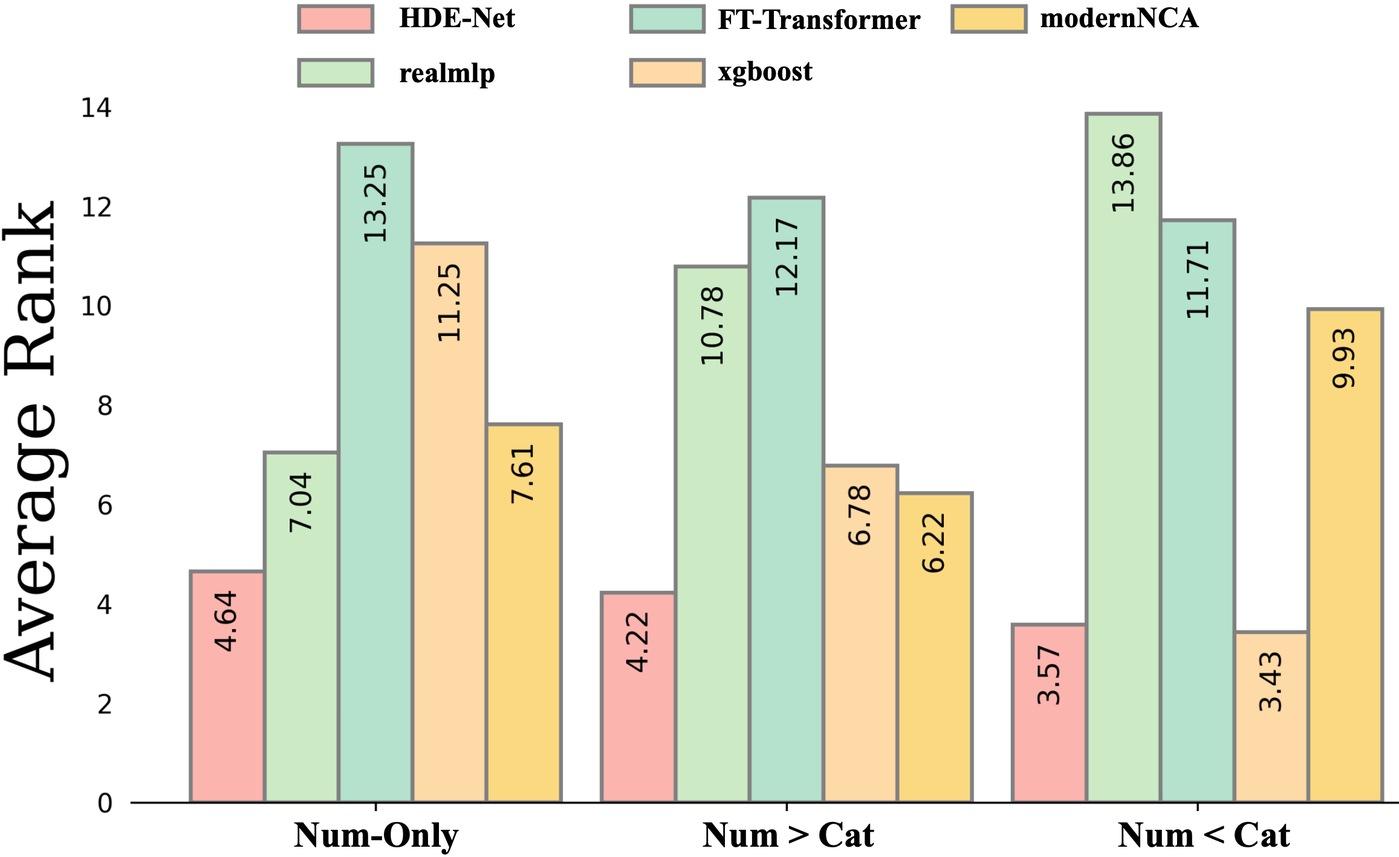
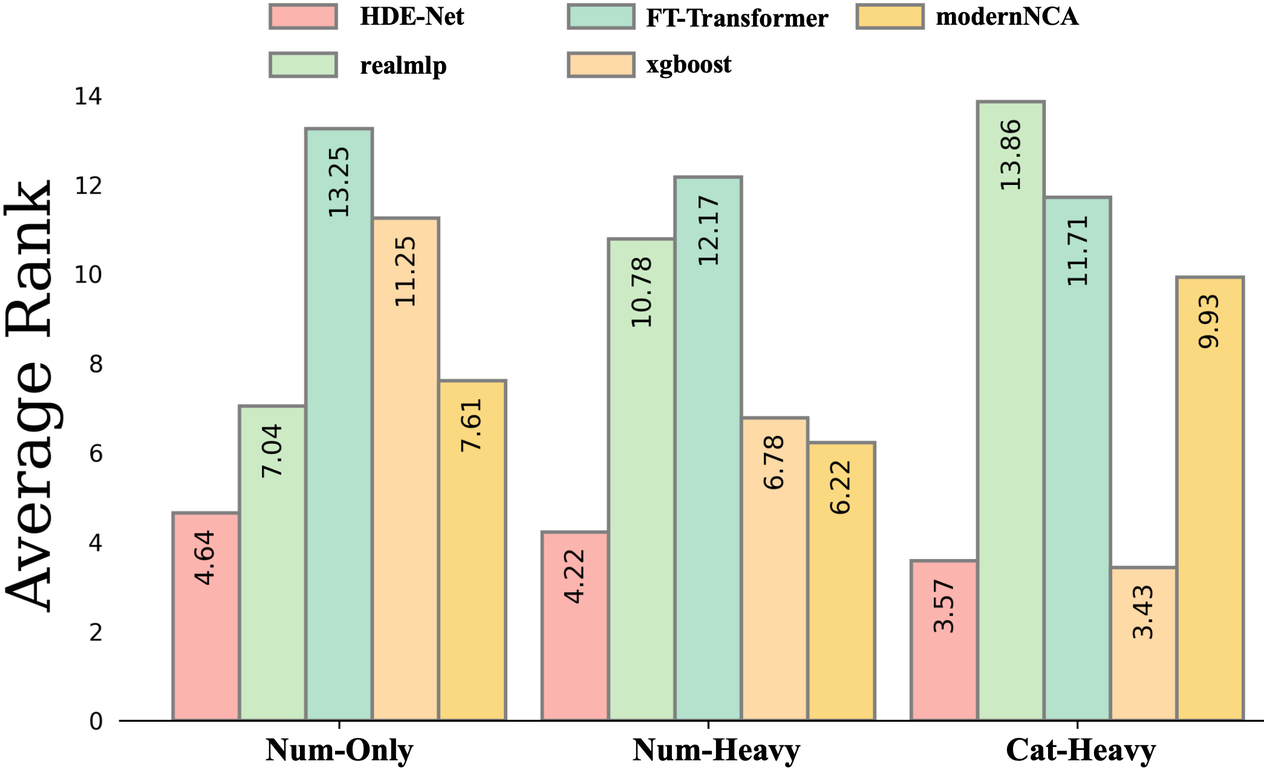
V5

diff --git a/sample-sigconf-authordraft.tex b/sample-sigconf-authordraft.tex
@@ -209,9 +209,8 @@
 \begin{abstract} 
 
 
-Despite the success of Tabular Deep Neural Network (DNN) models, Gradient-Boosted Decision Tree (GBDT) models remain the dominant baseline for tabular data, largely due to their efficiency in processing heterogeneous features and hierarchical reasoning. The critical bottleneck in tabular DNNs is representation granularity mismatch and inability to compensate for hierarchical reasoning. %, in which categorical features are modeled with fine-grained \textit{value-level} embeddings, while numerical features are reduced to coarse \textit{feature-level} linear projections. 
-% Moreover, Euclidean spaces struggle to model the exponential branching of decision trees because they lack the necessary intrinsic geometry. 
-To bridge this gap, we propose a novel \textit{Hyperbolic Decision Embedding (HDE)} framework that simulates a geometric isomorphism between feature embeddings and decision-tree inference. HDE unifies feature embedding by treating both categorical values and numerical ranges as \textit{Latent Decision Nodes (LDNs)} within the Poincaré ball hyperbolic representation. Specifically, we introduce \textit{Soft Decision Routing} to semantically discretize numerical features, aligning them with the value-level granularity of categorical embeddings. By leveraging the exponential growth in hyperbolic geometry, HDE implicitly enforces hierarchical constraints, mimicking tree-like decision boundaries in the continuous-valued space. Furthermore, we incorporate an \textit{entropy-aware} mechanism to adaptively allocate semantic capacity for numerical LDNs. Our model, \textit{HDE-Net}, achieves state-of-the-art performance on the TALENT-tiny-core classification benchmark, comprising 30 datasets. HDE-Net emerged \textit{ranks 1st} among both tree-based and tabular DNN baselines.
+Despite the success of Tabular Deep Neural Network (DNN) models, Gradient-Boosted Decision Tree (GBDT) models remain the dominant baseline for tabular data, largely due to their efficiency in processing heterogeneous features and hierarchical reasoning. The critical bottleneck in tabular DNNs is feature representation granularity mismatch and inability to compensate for hierarchical reasoning. 
+To bridge this gap, we propose a novel \textit{Hyperbolic Decision Embedding Network (HDE-Net)} that simulates a geometric isomorphism between feature embeddings and decision-tree inference. HDE itself unifies feature embedding by treating both categorical values and numerical ranges as \textit{Latent Decision Nodes (LDNs)} within the Poincaré ball hyperbolic representation. Specifically, we introduce \textit{Soft Decision Routing} to semantically discretize numerical features, aligning them with the value-level granularity of categorical embeddings. By leveraging the exponential growth in hyperbolic geometry, HDE-Net implicitly enforces hierarchical constraints, mimicking tree-like decision boundaries in the continuous-valued space. Furthermore, we incorporate an \textit{entropy-aware} mechanism to adaptively allocate semantic capacity for numerical LDNs. Our model achieves state-of-the-art performance on the TALENT-tiny-core classification benchmark, comprising 30 datasets. HDE-Net emerged \textit{ranks 1st} among both tree-based and tabular DNN baselines.
 
 %Despite the prevalence of Deep Neural Networks (DNNs), Gradient Boosted Decision Trees (GBDTs) remain the dominant baseline for tabular data, largely due to their unified handling of heterogeneous features and efficient hierarchical reasoning. By comparing their modeling processes, we identify a critical bottleneck in existing DNNs: a \textbf{Representation Granularity Mismatch}, where categorical features are modeled via fine-grained \textit{value-level} embeddings, while numerical features are reduced to coarse \textit{feature-level} linear projections. Moreover, Euclidean spaces struggle to model the exponential branching of decision trees, lacking the necessary intrinsic geometry. To bridge this gap, we propose \textbf{Hyperbolic Decision Embedding (HDE)}, a framework that establishes a geometric isomorphism between neural embeddings and decision tree inference. HDE unifies feature representation by treating both categorical values and numerical ranges as \textbf{Latent Decision Nodes (LDNs)} within the Poincaré ball. Specifically, we introduce \textbf{Soft Decision Routing} to semantically discretize numerical features, aligning them with the value-level granularity of categorical embeddings. By leveraging the exponential volume growth of hyperbolic geometry, HDE implicitly enforces hierarchical constraints, mimicking tree-like decision boundaries within the continuous valued space. Furthermore, we incorporate an \textbf{entropy-aware} mechanism to adaptively allocate semantic capacity for numerical LDNs. This \textit{``heavy-representation, light-backbone''} design enables our full model, \textbf{HDE-Net}, to achieve State-of-the-Art performance using only a simple MLP predictor. Extensive experiments on the TALENT-tiny-core classification benchmark demonstrate that HDE-Net ranks \textbf{1st (4.17)}, significantly outperforming both leading tree-based and deep learning baselines.
 
@@ -501,7 +500,7 @@ As shown in the diagram, HDE-Net exhibits a clear statistical advantage over a v
 \subsection{Robustness across Feature Scenarios}
 \label{sec:robustness}
 
-To further investigate the adaptability of HDE-Net to different feature compositions, we analyze the average ranking across three specific scenarios: \textit{Numerical-only} (Num-only), \textit{Numerical-dominant} (Num > Cat > 0), and \textit{Categorical-dominant} (Num < Cat). We select representative models from each paradigm for comparison: XGBoost (Tree), RealMLP (Ad-hoc Fusion), FT-Transformer (Pseudo-Alignment), and ModernNCA (Retrieval). The results are illustrated in Figure \ref{fig:scenarios}.
+To further investigate the adaptability of HDE-Net to different feature compositions, we analyze the average ranking across three specific scenarios: \textit{Num-only} (Datasets only contains numerical features), \textit{Num-Heavy} (Numerical dominant datasets), and \textit{Cat-Heavy} (Categorical dominant datasets). Since the benchmark contains only one categorical-only dataset (\texttt{ozone\_level}), it is merged into the categorical-dominant group. We select representative models from each paradigm for comparison: XGBoost (Tree), RealMLP (Ad-hoc Fusion), FT-Transformer (Pseudo-Alignment), and ModernNCA (Retrieval). The results are illustrated in Figure \ref{fig:scenarios}.
 
 \noindent\textbf{Excellence in Numerical Representation.} In the \textit{Num-only} scenario, HDE-Net achieves a rank of 4.64, significantly outperforming RealMLP (7.04) and FT-Transformer (13.25). This gap proves that our Soft Decision Routing mechanism effectively captures the linear and non-linear semantics of numerical features, whereas the simple linear projections in FTT create a significant performance bottleneck.
 
@@ -514,32 +513,42 @@ To further investigate the adaptability of HDE-Net to different feature composit
     \label{fig:scenarios}
 \end{figure}
 
+
 \subsection{Mechanism Analysis and Ablation Study}
 \label{sec:ablation}
 
-In this section, we conduct a detailed ablation study to quantify the contributions of HDE-Net's core components and evaluate its sensitivity to parameters. \textit{Note on Rankings}: As average ranking is a relative metric, the absolute values reported in this section (e.g., in Figures \ref{fig:ablation_bar} and \ref{fig:sensitivity_bar}) differ from the main results in Section \ref{sec:main_results} because the model pool has been expanded to include HDE variants for specialized comparison.
+In this section, we conduct a detailed ablation study to quantify the contributions of HDE-Net's core components and evaluate its sensitivity to parameters. \textit{Note on Rankings}: As average ranking is a relative metric, the absolute values reported in this section (e.g., in Table \ref{tab:ablation} and Fig \ref{fig:sensitivity_bar}) differ from the main results in Section \ref{sec:main_results} because the model pool has been expanded to include HDE variants for specialized comparison.
 
 \noindent\textbf{Impact of Core Mechanisms} 
-To understand the necessity of each design choice, we evaluate two critical variants: \textit{HDE-noRouter}, which reverts numerical feature processing to a single hyperbolic linear mapping, and \textit{HDE-noHyp}, which retains the routing mechanism but constrains all LDNs to Euclidean space. We also include FT-Transformer as an external reference. As illustrated in Figure \ref{fig:ablation_bar}:
+To disentangle the contributions of our design choices, we evaluate two variants: \textit{HDE-noRouter}, which reverts numerical feature processing to a single hyperbolic linear mapping, and \textit{HDE-noHyp}, which retains the routing mechanism but constrains all LDNs to Euclidean space. We compare these against leading baselines in Table \ref{tab:ablation}.
+
+% Table generated by Excel2LaTeX from sheet 'Params'
+\begin{table}[htbp]
+  \centering
+  \caption{\textbf{Ablation study of HDE-Net components.} Results show that Soft Decision Routing alone (\textit{HDE-noHyp}) already surpasses previous SOTAs like ModernNCA, while Hyperbolic constraints (\textit{HDE-Net}) provide the critical boost to secure the top rank.}
+    \begin{tabular}{lrlr}
+    \toprule
+    \textbf{Variant} & \textbf{Rank} & \textbf{Baseline} & \textbf{Rank} \\
+    \midrule
+    \textbf{HDE-Net} & \textbf{4.93} & ModernNCA & 8.70 \\
+    HDE-noHyp & 7.10  & TabR  & 9.48 \\
+    HDE-noRouter & 13.45 & RealMLP & 10.82 \\
+          &       & FT-Transformer & 13.93 \\
+    \bottomrule
+    \end{tabular}%
+  \label{tab:ablation}%
+\end{table}%
 
 \begin{itemize}
-	\item \textbf{The Primacy of Soft Decision Routing.} The most dramatic performance drop occurs in \textit{HDE-noRouter} (Rank 13.45). This confirms that resolving the representation granularity mismatch via Soft Decision Routing is the foundational prerequisite for deep tabular models. 
-	\item \textbf{The SOTA-making Factor: Hyperbolic Constraints.} Introducing the hyperbolic manifold brings a significant jump from \textit{HDE-noHyp} (Rank 7.10) to \textit{HDE-Net} (Rank 4.93). This validates our claim that implicit hierarchical constraints are essential for achieving top-tier performance, especially in capturing tree-like reasoning patterns. 
-	\item \textbf{Manifold Efficiency.} Notably, \textit{HDE-noRouter} (12-dim, MLP backbone) achieves parity with FT-Transformer (100+ dim, Transformer backbone), further confirms that HDE represent decision structures far more efficiently than complex Euclidean backbones.
+    \item \textbf{Soft Routing Suffices for SOTA-level Performance.} A remarkable finding is that even without hyperbolic geometry, \textit{HDE-noHyp} (Rank 7.10) significantly outperforms previous state-of-the-art models, including ModernNCA (8.70) and RealMLP (10.82). This strongly validates our hypothesis: resolving the \textit{Representation Granularity Mismatch} via Soft Decision Routing is the most critical factor in tabular deep learning, outweighing the benefits of complex retrieval or ad-hoc fusion strategies.
+    
+    \item \textbf{Hyperbolic Geometry as the Crown Jewel.} While Euclidean routing is effective, introducing the hyperbolic manifold elevates the performance from Rank 7.10 to \textbf{4.93}. This substantial leap confirms that the implicit hierarchical constraints offered by the Poincaré ball provide a unique inductive bias that Euclidean spaces cannot replicate, essential for mastering complex decision boundaries.
+    
+    \item \textbf{High Capacity with Low Dimensionality.} Even in its weakest form, \textit{HDE-noRouter} (Rank 13.45) achieves parity with FT-Transformer (13.93). Crucially, HDE operates with a minimal 12-dimensional embedding and a simple MLP, whereas FT-Transformer relies on 100+ dimensions and a heavy Transformer backbone. This underscores the exceptional data efficiency of hyperbolic representations.
 \end{itemize}
-
-\begin{figure}[h]
-    \centering
-    \includegraphics[width=\linewidth]{ablation.png}
-    \caption{Ablation study of HDE-Net components. Comparisons show that Soft Decision Routing is the primary driver of performance, while Hyperbolic constraints provide the critical boost to secure SOTA status.}
-    \label{fig:ablation_bar}
-\end{figure}
 
 \noindent\textbf{Efficacy of Entropy-aware Allocation}
 We further analyze the parameter sensitivity of the number of LDNs ($k$). We compare HDE-Net (Adaptive $k$) against variants with fixed $k \in \{2, 4, 6, 8, 10\}$. As shown in Figure \ref{fig:sensitivity_bar}:
-
-The results exhibit a clear U-shaped ranking trend for fixed-capacity models ($k=2$ to $k=10$). Models with $k \le 6$ suffer from under-parameterization (insufficient decision nodes), while $k=10$ shows signs of over-parameterization, increasing the complexity burden on the MLP classifier. 
-Meanwhile, HDE-Net (Rank 5.73) significantly outperforms the best fixed variant ($k=8$, Rank 7.92). This empirical gap demonstrates the superiority of our adaptation which effectively assigns "decision bandwidth" where it is most needed, finding a superior balance between expressiveness and efficiency that no fixed-parameter model can achieve.
 
 \begin{figure}[h]
     \centering
@@ -547,6 +556,9 @@ Meanwhile, HDE-Net (Rank 5.73) significantly outperforms the best fixed variant 
     \caption{Parameter sensitivity analysis across different LDN capacities ($k$). HDE-Net (Adaptive $k$) consistently outperforms all fixed-$k$ variants, proving the necessity of entropy-aware allocation.}
     \label{fig:sensitivity_bar}
 \end{figure}
+
+The results exhibit a clear U-shaped ranking trend for fixed-capacity models ($k=2$ to $k=10$). Models with $k \le 6$ suffer from under-parameterization (insufficient decision nodes), while $k=10$ shows signs of over-parameterization, increasing the complexity burden on the MLP classifier. 
+Meanwhile, HDE-Net (Rank 5.73) significantly outperforms the best fixed variant ($k=8$, Rank 7.92). This empirical gap demonstrates the superiority of our adaptation which effectively assigns "decision bandwidth" where it is most needed, finding a superior balance between expressiveness and efficiency that no fixed-parameter model can achieve.
 
 \subsection{Efficiency Analysis: Complexity and Cost}
 \label{sec:efficiency}
@@ -558,32 +570,41 @@ Structure-based models like FTTransformer rely on self-attention mechanisms, res
 In contrast, HDE-Net employs a lightweight MLP backbone. The HDE layer performs element-wise routing and aggregation, scaling linearly with the number of features and the corresponding capacity $K$ (for simplicity, here $K$ denotes both the cardinality of categorical features and the number of LDNs allocated to numerical features). Thus, the complexity of HDE-Net is strictly $\mathcal{O}(N_{feat} \cdot K + \text{MLP}_{depth})$, eliminating the quadratic bottleneck of Transformers and the retrieval overhead of neighbor-based methods.
 
 \noindent\textbf{Quantitative Comparison.}
-Table \ref{tab:efficiency} presents the FLOPs and parameter counts for a representative dataset (e.g., \textit{MagicTelescope}). HDE-Net requires significantly fewer FLOPs (approx. $\mathbf{1/10}\times$) compared to FT-Transformer while maintaining a compact parameter size. This confirms that our ``heavy-representation, light-backbone'' design effectively offloads the reasoning burden from the expensive backbone to the efficient embedding layer.
-\begin{table}[h]
-    \centering
-    \caption{\textbf{Efficiency Comparison.} FLOPs and Parameters are estimated on the \textit{MagicTelescope} dataset ($N_{feat}=10$, Binary Classification). HDE-Net achieves SOTA performance with minimal computational cost.}
-    \label{tab:efficiency}
-    \resizebox{0.9\linewidth}{!}{
-    \begin{tabular}{l|cc|c}
+ We selected the \texttt{INNHotelsGroup} dataset from the TALENT benchmark, which features a balanced composition of categorical (6) and numerical (11) features with 29,020 samples, providing a representative scenario for both retrieval-based and architecture-based methods. Inference time was measured on an NVIDIA RTX A4000 GPU with a batch size of 10,240 to maximize throughput and minimize I/O overhead. We compared HDE-Net against top-performing DNN baselines: FT-Transformer (Structure-based), ModernNCA (Retrieval-based), and RealMLP (Ad-hoc Fusion), using their optimal hyperparameter configurations provided by the benchmark.
+ 
+ \begin{table}[h]
+  \centering
+  \caption{\textbf{Efficiency Comparison on INNHotelsGroup.} Inference time is measured for a single forward pass of the full test set (Batch Size = 10,240). Rank refers to the average rank on the full TALENT benchmark. HDE-Net achieves the best rank with the lowest latency.}
+    \begin{tabular}{lccc}
     \toprule
-    \textbf{Model} & \textbf{Params (M)} & \textbf{FLOPs (M)} & \textbf{Avg Rank} \\
+    \textbf{Model} & \textbf{Params (M)} & \textbf{Infer. Time (s)} & \textbf{Avg. Rank} \\
     \midrule
-    FT-Transformer & 0.23 & 0.85 & 11.63 \\
-    RealMLP & 0.84 & 1.68 & 8.90 \\
-    ModernNCA & 0.02 & $N_{train} \times 0.001^*$ & 8.60 \\
-    \midrule
-    \textbf{HDE-Net (Ours)} & \textbf{0.39} & \textbf{0.39} & \textbf{4.17} \\
+    FT-Transformer & 0.91  & 0.0440 & 12.55 \\
+    RealMLP & 0.15  & 0.1293$^\dagger$ & 9.68 \\
+    ModernNCA & 0.06  & 0.0552 & 7.63 \\
+    \textbf{HDE-Net (Ours)} & 0.63  & \textbf{0.0077} & \textbf{4.17} \\
     \bottomrule
-    \end{tabular}
-    }
-%    \begin{tablenotes}
-%        \small
-%        \item[*] ModernNCA's inference cost grows linearly with the training set size, making it prohibitive for large-scale data.
-%    \end{tablenotes}
-\end{table}
+    \multicolumn{4}{l}{\footnotesize $^\dagger$ Note: High latency likely due to implementation overhead in the benchmark suite.}
+    \end{tabular}%
+  \label{tab:efficiency}%
+\end{table}%
 
-\noindent\textit{Implementation Note:} While HDE-Net exhibits superior theoretical efficiency, its current wall-clock inference speed is constrained by the lack of kernel optimization for Riemannian operations (e.g., Möbius Operations) in standard libraries like \texttt{geoopt}. We anticipate that future engineering optimizations, such as operator fusion, will bridge the gap between theoretical FLOPs and real-world latency.
+ As detailed in Table \ref{tab:efficiency}, HDE-Net achieves a remarkable balance between efficiency and performance:
 
+\begin{itemize}
+    \item \textbf{Vs. Structure-based (FT-Transformer):} While HDE-Net has a comparable parameter count to FT-Transformer (0.63M vs. 0.91M), it is approximately \textit{5.7$\times$ faster} (0.0077s vs. 0.0440s). This empirically confirms that shifting complexity from the backbone (Transformer layers) to the embedding layer (HDE) significantly reduces computational latency without sacrificing accuracy.
+    \item \textbf{Vs. Retrieval-based (ModernNCA):} Although ModernNCA has fewer parameters due to its non-parametric nature, its inference latency is significantly higher (0.0552s, \textit{$\approx$7.1$\times$ slower} than HDE-Net). This highlights the advantage of HDE's design: effective architectural design alone can achieve strong performance–efficiency trade-offs, even without retrieval.
+    \item \textbf{Vs. Ad-hoc Fusion (RealMLP):} Theoretically, RealMLP should be efficient due to its simple architecture. However, we observed anomalously high latency (0.1293s) in the benchmark implementation. We attribute this to engineering disparities in the TALENT codebase rather than inherent algorithmic complexity. Even disregarding this anomaly, HDE-Net significantly outperforms RealMLP in ranking (4.17 vs. 9.68), justifying the overhead of the HDE layer.
+\end{itemize}
+
+In summary, HDE-Net dominates the trade-off landscape, delivering the fastest inference speed among competitive baselines while maintaining the best overall ranking.
+
+\begin{figure*}[htbp]
+    \centering
+    \includegraphics[width=\linewidth]{RouterVisual.png}
+    \caption{Visualization of Soft Decision Router weights compared to Decision Tree split points. The intersections and zero-crossings of LDN weights closely match the tree's hard thresholds, proving the isomorphism in split logic.}
+    \label{fig:router_vis}
+\end{figure*}
 
 \subsection{Qualitative Analysis: Geometric Isomorphism}
 \label{sec:visualization}
@@ -594,34 +615,25 @@ To validate our core claim that HDE-Net establishes a geometric isomorphism with
 We examine whether the \textit{Soft Decision Router} reconstructs the range-splitting logic of decision trees. For a numerical feature $j$, we visualize the routing weights $w_{j,k}$ (from Eq.~\ref{eq:router_weight}) across its entire value range. As shown in Figure \ref{fig:router_vis}, the x-axis represents sorted feature values, and each colored line corresponds to the weight of a specific LDN. 
 In ``ibm employee performance'' ($k=2$) and ``company bankruptcy'' ($k=4$) datasets, the intersection points of these weight curves (one LDN's influence begins to surpass another) align remarkably well with the hard split thresholds learned by a standard Decision Tree (via \textit{scikit-learn}). Moreover, the zero-crossing points (where $w_{j,k} = 0$) also align with signify a transition in the node's contribution from negative to positive, effectively acting as a soft decision boundary. This phenomenon demonstrates that HDE-Net implicitly reconstructs the discrete range-splitting mechanism of trees while maintaining a differentiable formulation suitable for gradient-based optimization.
 
-\begin{figure}[h]
-    \centering
-    \includegraphics[width=\linewidth]{RouterVisual.png}
-    \caption{Visualization of Soft Decision Router weights compared to Decision Tree split points. The intersections and zero-crossings of LDN weights closely match the tree's hard thresholds, proving the isomorphism in split logic.}
-    \label{fig:router_vis}
-\end{figure}
-
 \noindent\textbf{Hierarchical Structure in Poincaré Space.}
 We further visualize the learned distribution of LDNs to confirm their hierarchical nature. We first compute the pairwise manifold distance matrix $\mathbf{D} \in \mathbb{R}^{M \times M}$ for all $M$ active LDNs using the Poincaré distance formula $d_{\mathbb{B}}$ defined in Eq. (1). Then, we apply \textbf{Multidimensional Scaling (MDS)} to project these hyperbolic points into a 2D Euclidean space. 
 Each LDN is colored based on its \textit{Cover Rate} (feature importance) provided by a pre-trained XGBoost model, representing its relative level in the tree hierarchy. As illustrated in Figure \ref{fig:hde_vis} for $ozone\_level$ and $allbp$:
+\begin{figure}[ht]
+    \centering
+    \includegraphics[width=\linewidth]{EmbeddingVisual.png}
+    \caption{HDE visualized via MDS and colored by XGBoost Feature importance. The emergence of fractal structures and the center-to-boundary importance hierarchy confirm the induction of a tree-like structure.}
+    \label{fig:hde_vis}
+\end{figure}
 \begin{itemize}
-	\item \textbf{Fractal Emergence}: Starting from a random initialization (Epoch 0), the LDNs progressively organize into distinct clusters with fractal-like branching patterns, mirroring the topology of decision trees. 
+	\item \textbf{Branching Pattern Emergence}: Starting from a random initialization (Epoch 0), the LDNs progressively organize into distinct clusters with fractal-like branching patterns, mirroring the topology of decision trees. 
 	\item \textbf{Hierarchy-Aware Distribution}: Highly important LDNs (darker red, higher cover rate) tend to reside near the center of the space, effectively acting as ``root-like'' nodes with broader influence. Conversely, LDNs with lower importance (lighter yellow) are pushed towards the boundary, representing ``leaf-like'' fine-grained decision regions. This spatial arrangement serves as direct evidence that the hyperbolic manifold constraint forces the model to induce a latent reasoning hierarchy equivalent to that of GBDTs.
 \end{itemize}
 
-\begin{figure}[t]
-    \centering
-    \includegraphics[width=\linewidth]{EmbeddingVisual.png}
-    \caption{Hyperbolic LDN distribution visualized via MDS and colored by XGBoost Cover Rate. The emergence of fractal structures and the center-to-boundary importance gradient confirm the induction of a tree-like hierarchy.}
-    \label{fig:hde_vis}
-\end{figure}
-
 \section{Conclusion}
 \label{sec:conclusion}
+In this paper, we address the fundamental "Dual Deficiency" of deep tabular learning, representation granularity mismatch and the lack of intrinsic hierarchical geometry. By proposing \textbf{HDE-Net}, we establish a novel \textit{geometric isomorphism} between neural embeddings and the robust reasoning logic of decision trees. Our framework unifies heterogeneous features into a standardized set of Latent Decision Nodes (LDNs) within the Poincaré ball model, where Soft Decision Routing elevates numerical feature modeling from a coarse feature-level projection to a fine-grained value-level discretization. 
 
-In this paper, we address the fundamental "Dual Deficiency" of deep tabular learning, representation granularity mismatch and the lack of intrinsic hierarchical geometry. By proposing \textbf{Hyperbolic Decision Embedding (HDE)}, we establish a novel \textit{geometric isomorphism} between neural embeddings and the robust reasoning logic of decision trees. Our framework unifies heterogeneous features into a standardized set of \textbf{Latent Decision Nodes (LDNs)} within the Poincaré ball, where \textbf{Soft Decision Routing} elevates numerical feature modeling from a coarse feature-level projection to a fine-grained value-level discretization. 
-
-Through extensive experiments on the 30 datasets of the TALENT-tiny-core benchmark, our full model \textbf{HDE-Net} achieves \textbf{State-of-the-Art (Rank 1st)} performance, consistently outperforming both the industrial gold standard GBDTs and leading tabular DNN baselines. Beyond performance metrics, our qualitative visualizations provide empirical proof that HDE-Net induces a tree-equivalent hierarchy directly within its embedding space, where important decision boundaries align with those of traditional trees. This ``heavy-representation, light-backbone'' design demonstrates that deep models can surpass tree-based systems without resorting to bloated architectures or expensive retrieval mechanisms. We believe that HDE provides a promising geometric foundation for future tabular learning research, and we plan to explore its scalability to cross modality datasets and its potential for foundation model integration in future work.
+Through extensive experiments on the 30 datasets of the TALENT-tiny-core benchmark, \textbf{HDE-Net} achieves \textbf{SOTA (Rank 1st)} performance, consistently outperforming both the industrial gold standard GBDTs and leading tabular DNN baselines. Beyond performance metrics, our qualitative visualizations provide empirical proof that HDE-Net induces a tree-equivalent hierarchy directly within its embedding space, where important decision boundaries align with those of traditional trees. This heavy-representation, light-backbone design demonstrates that deep models can surpass tree-based systems without resorting to bloated architectures or expensive retrieval mechanisms. We believe that HDE provides a promising geometric foundation for future tabular learning research, and we plan to explore its scalability to cross modality datasets and its potential for foundation model integration in future work.
 
 \iffalse
 \section{Introduction}
@@ -1170,6 +1182,7 @@ To Robert, for the bagels and explaining CMYK and color spaces.
 
 %%
 %% If your work has an appendix, this is the place to put it.
+\clearpage
 \appendix
 \section{Statistics of the Datasets}
 \label{app:datasets}
